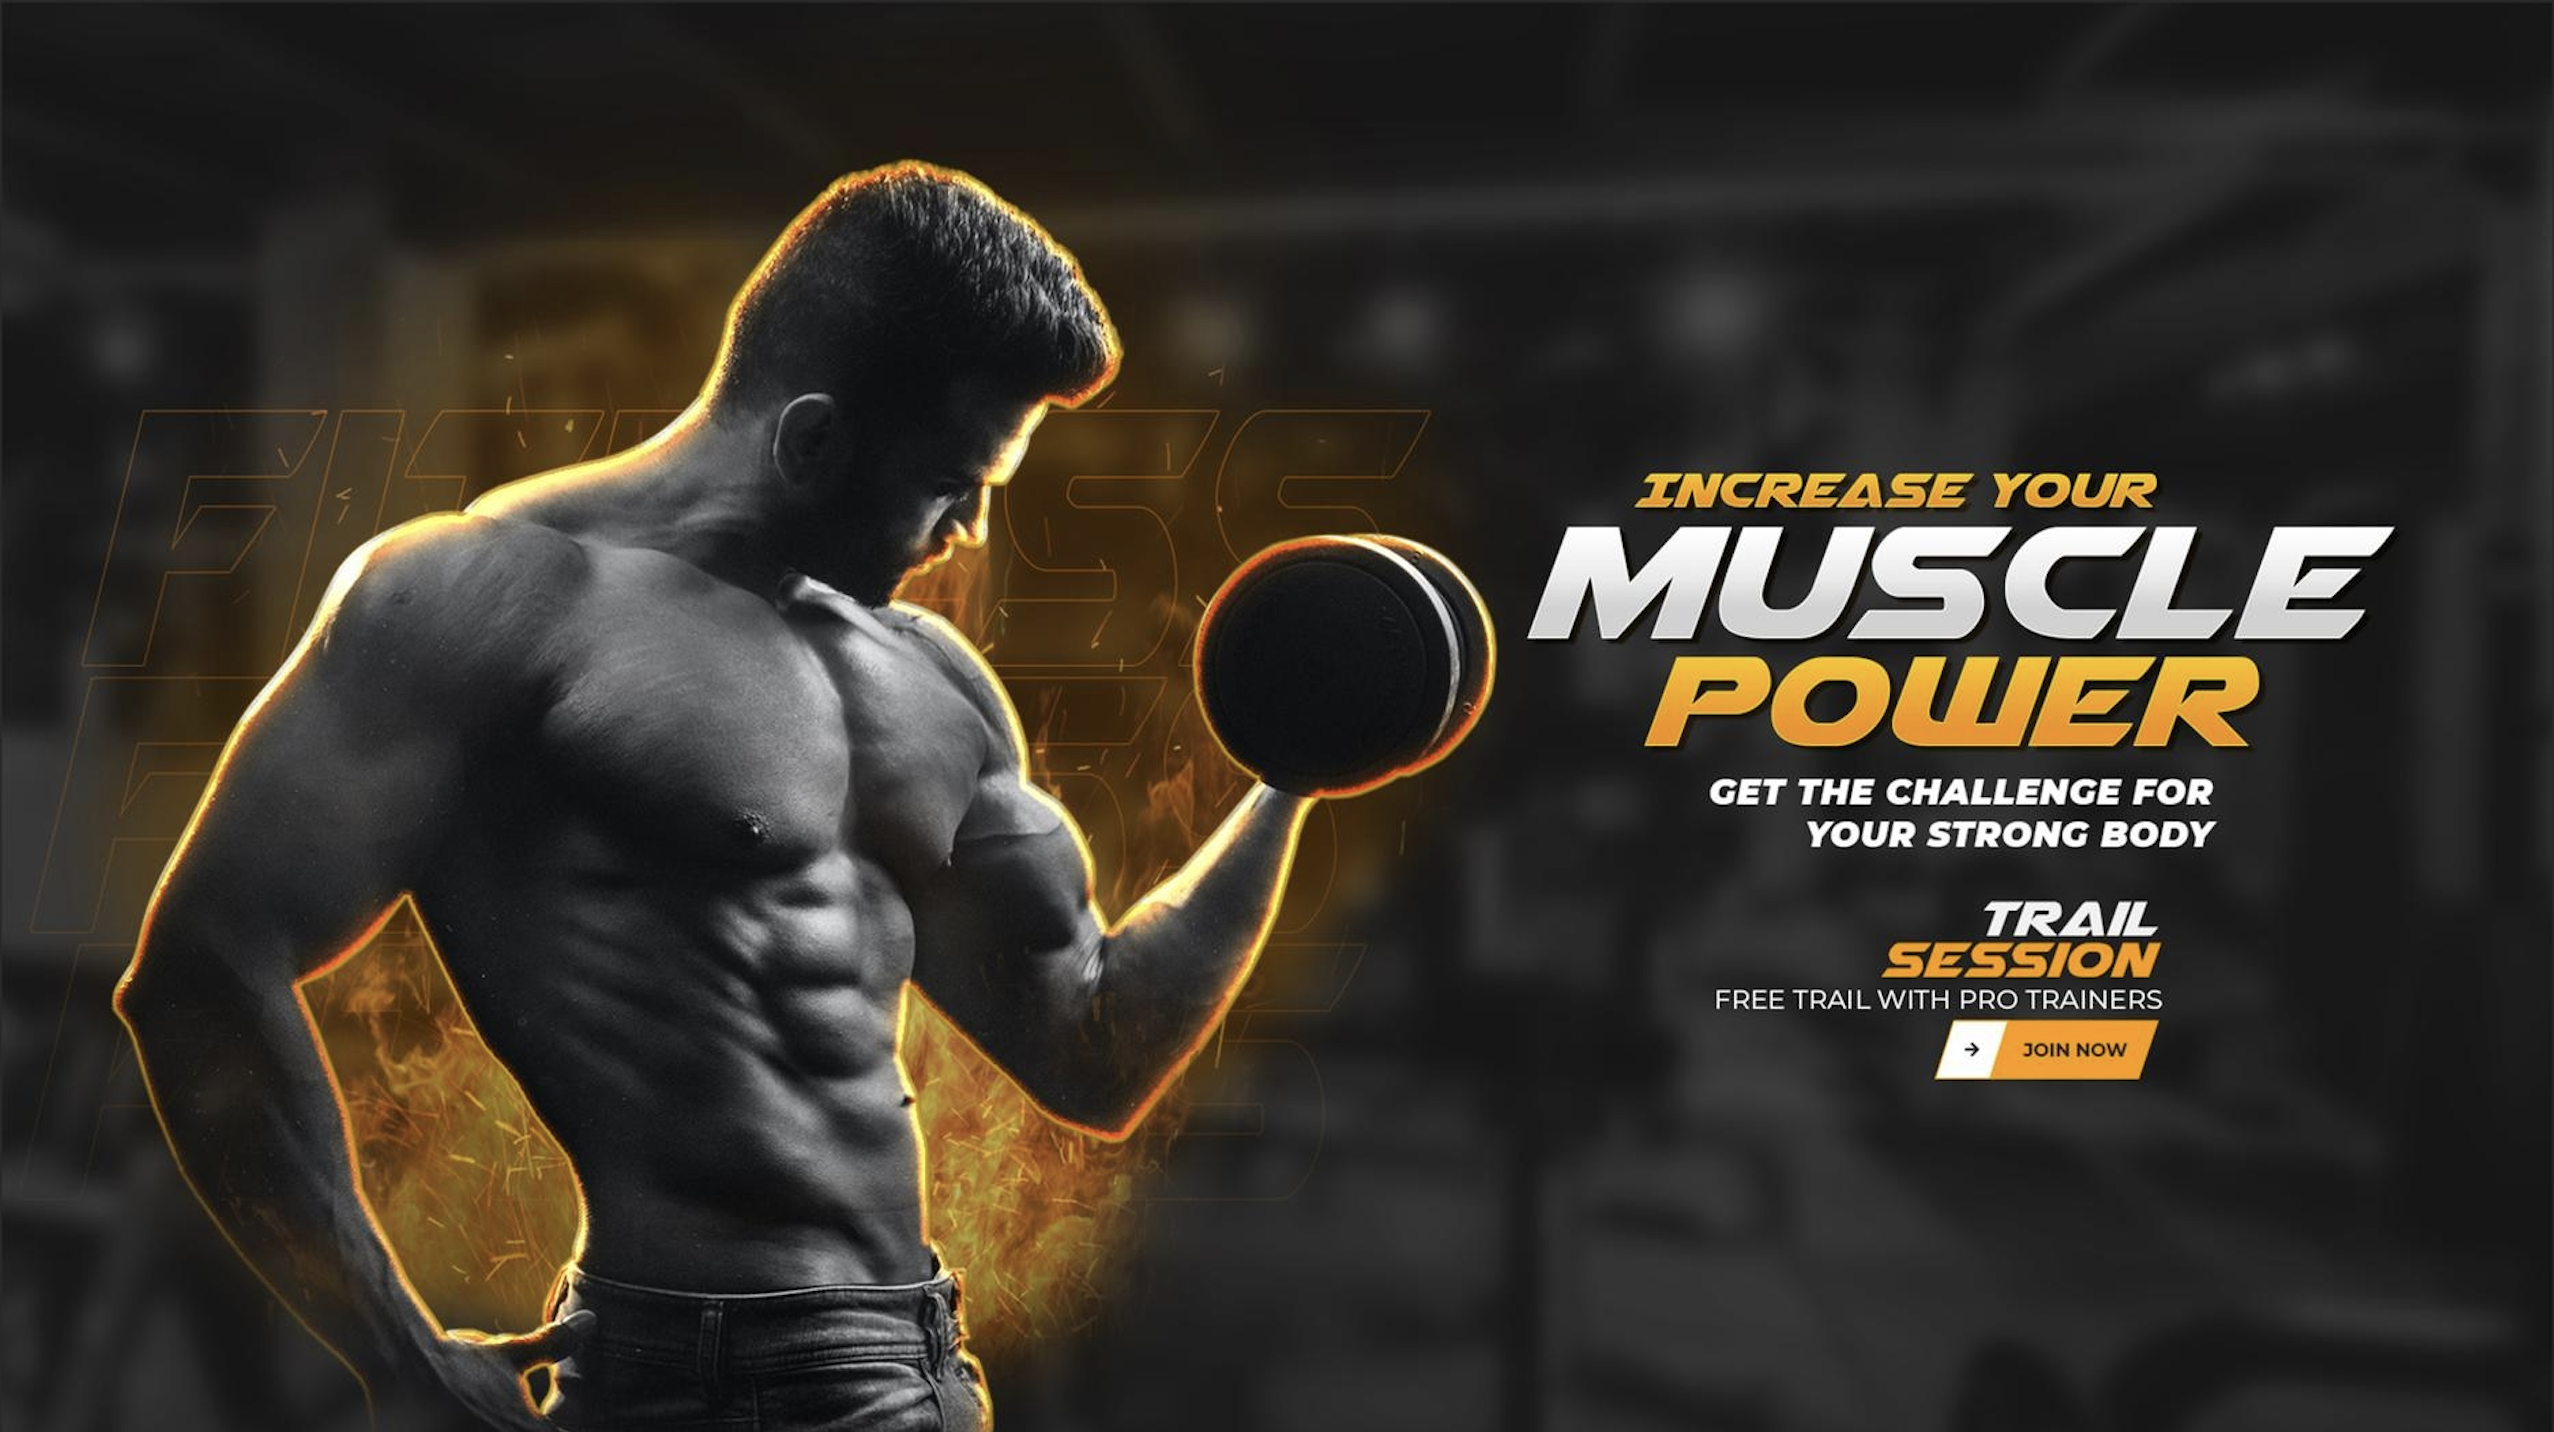
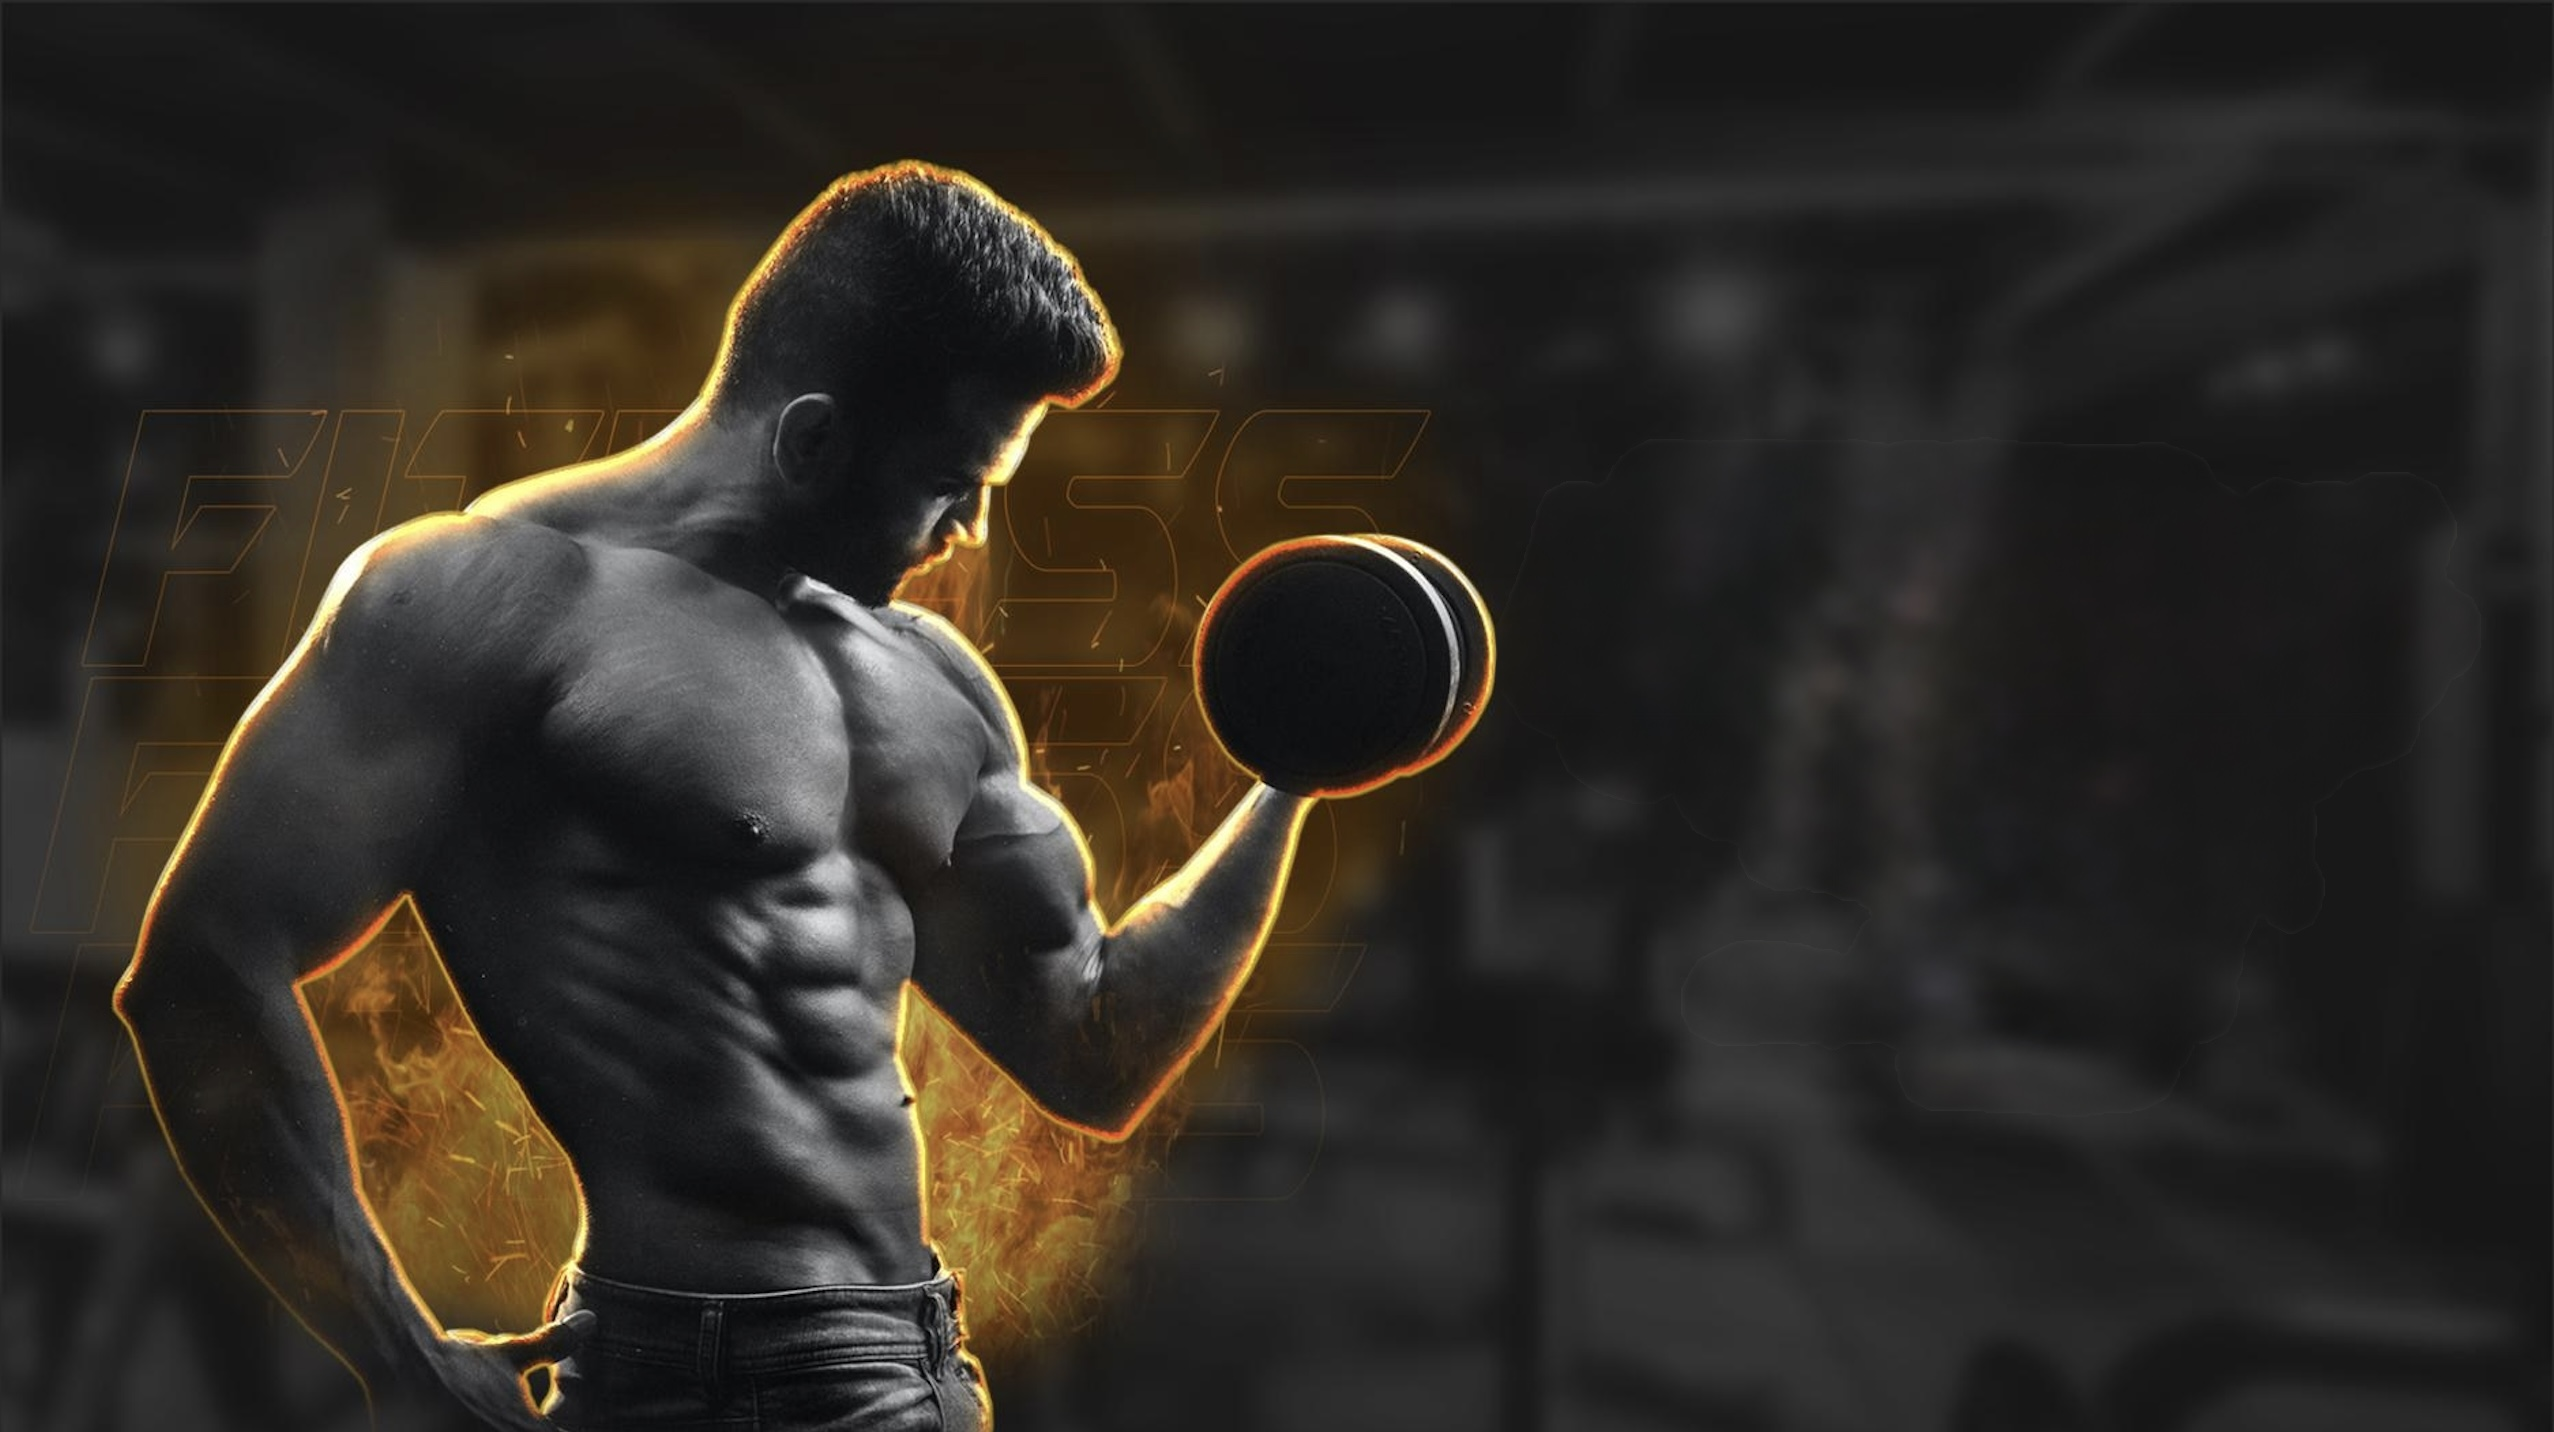
modificacion hero sin letra

Changed region(s): [[0.5877, 0.3073, 0.9589, 0.7682]]

diff --git a/resources/css/inicio.css b/resources/css/inicio.css
@@ -61,45 +61,3 @@
         transform: translateX(-50%);
     }
 }
-.hero-panel {
-    top: 57%;
-    left: 77%;
-    transform: translate(-50%, -50%);
-
-    background-color: #f6e7cf;
-    padding: 3rem 3.5rem;          /* en rem → escala según zoom */
-    border-radius: 18px;
-    box-shadow: 0 6px 30px rgba(0,0,0,0.35);
-
-    height: 75%;
-
-    width: 40%;                    /* cambia con el ancho de pantalla */
-    max-width: 520px;              /* límite para pantallas grandes */
-    min-width: 280px;              /* límite para pantallas pequeñas */
-}
-
-/* Cuando la pantalla es más estrecha → mover panel más a la izquierda */
-@media (max-width: 992px) { /* tablets */
-    .hero-panel {
-        left: 65%;
-        width: 40%;
-    }
-}
-
-@media (max-width: 768px) { /* móviles grandes */
-    .hero-panel {
-        left: 50%;
-        top: 55%;
-        width: 70%;
-        padding: 2rem;
-        transform: translate(-50%, -50%);
-    }
-}
-
-@media (max-width: 576px) { /* móviles pequeños */
-    .hero-panel {
-        width: 85%;
-        top: 60%;
-        padding: 1.5rem;
-    }
-}

diff --git a/resources/views/Inicio.blade.php b/resources/views/Inicio.blade.php
@@ -95,17 +95,32 @@
          style="height: 480px; object-fit: cover; object-position: center;">
 
     {{-- BLOQUE TEXTO SUPERPUESTO --}}
-  <div class="hero-panel position-absolute">
-    <h1 class="fw-bold mb-3">Descubre nuestra<br>colección</h1>
+   <div class="position-absolute"
+     style="
+         top: 54%;               /* MÁS ABAJO */
+         left: 78%;              /* MÁS A LA DERECHA */
+         transform: translate(-50%, -50%);
+         background-color: #f6e7cf;
+         padding: 55px 60px;
+         border-radius: 18px;
+         box-shadow: 0 6px 30px rgba(0,0,0,0.35);
+         width: 520px;           /* UN POCO MÁS ANCHO */
+     ">
 
-    <p class="mb-4">
-        Equipamiento, suscripciones y servicios de renting para tu gimnasio.
-    </p>
+        <h1 class="fw-bold mb-3" style="font-size: 2.8rem; line-height: 1.2;">
+            Descubre nuestra<br>colección
+        </h1>
 
-    <a href="{{ route('suscripcion.vista') }}" class="btn btn-dark btn-lg px-4">
-        Ver suscripciones
-    </a>
-</div>
+        <p class="mb-4" style="font-size: 1.15rem;">
+            Equipamiento, suscripciones y servicios de renting para tu gimnasio.
+        </p>
+
+        <a href="{{ route('suscripcion.vista') }}" 
+           class="btn btn-dark btn-lg px-4">
+            Ver suscripciones
+        </a>
+
+    </div>
 
 </section>
             {{-- ================= NOVEDADES PREMIUM ================= --}}
